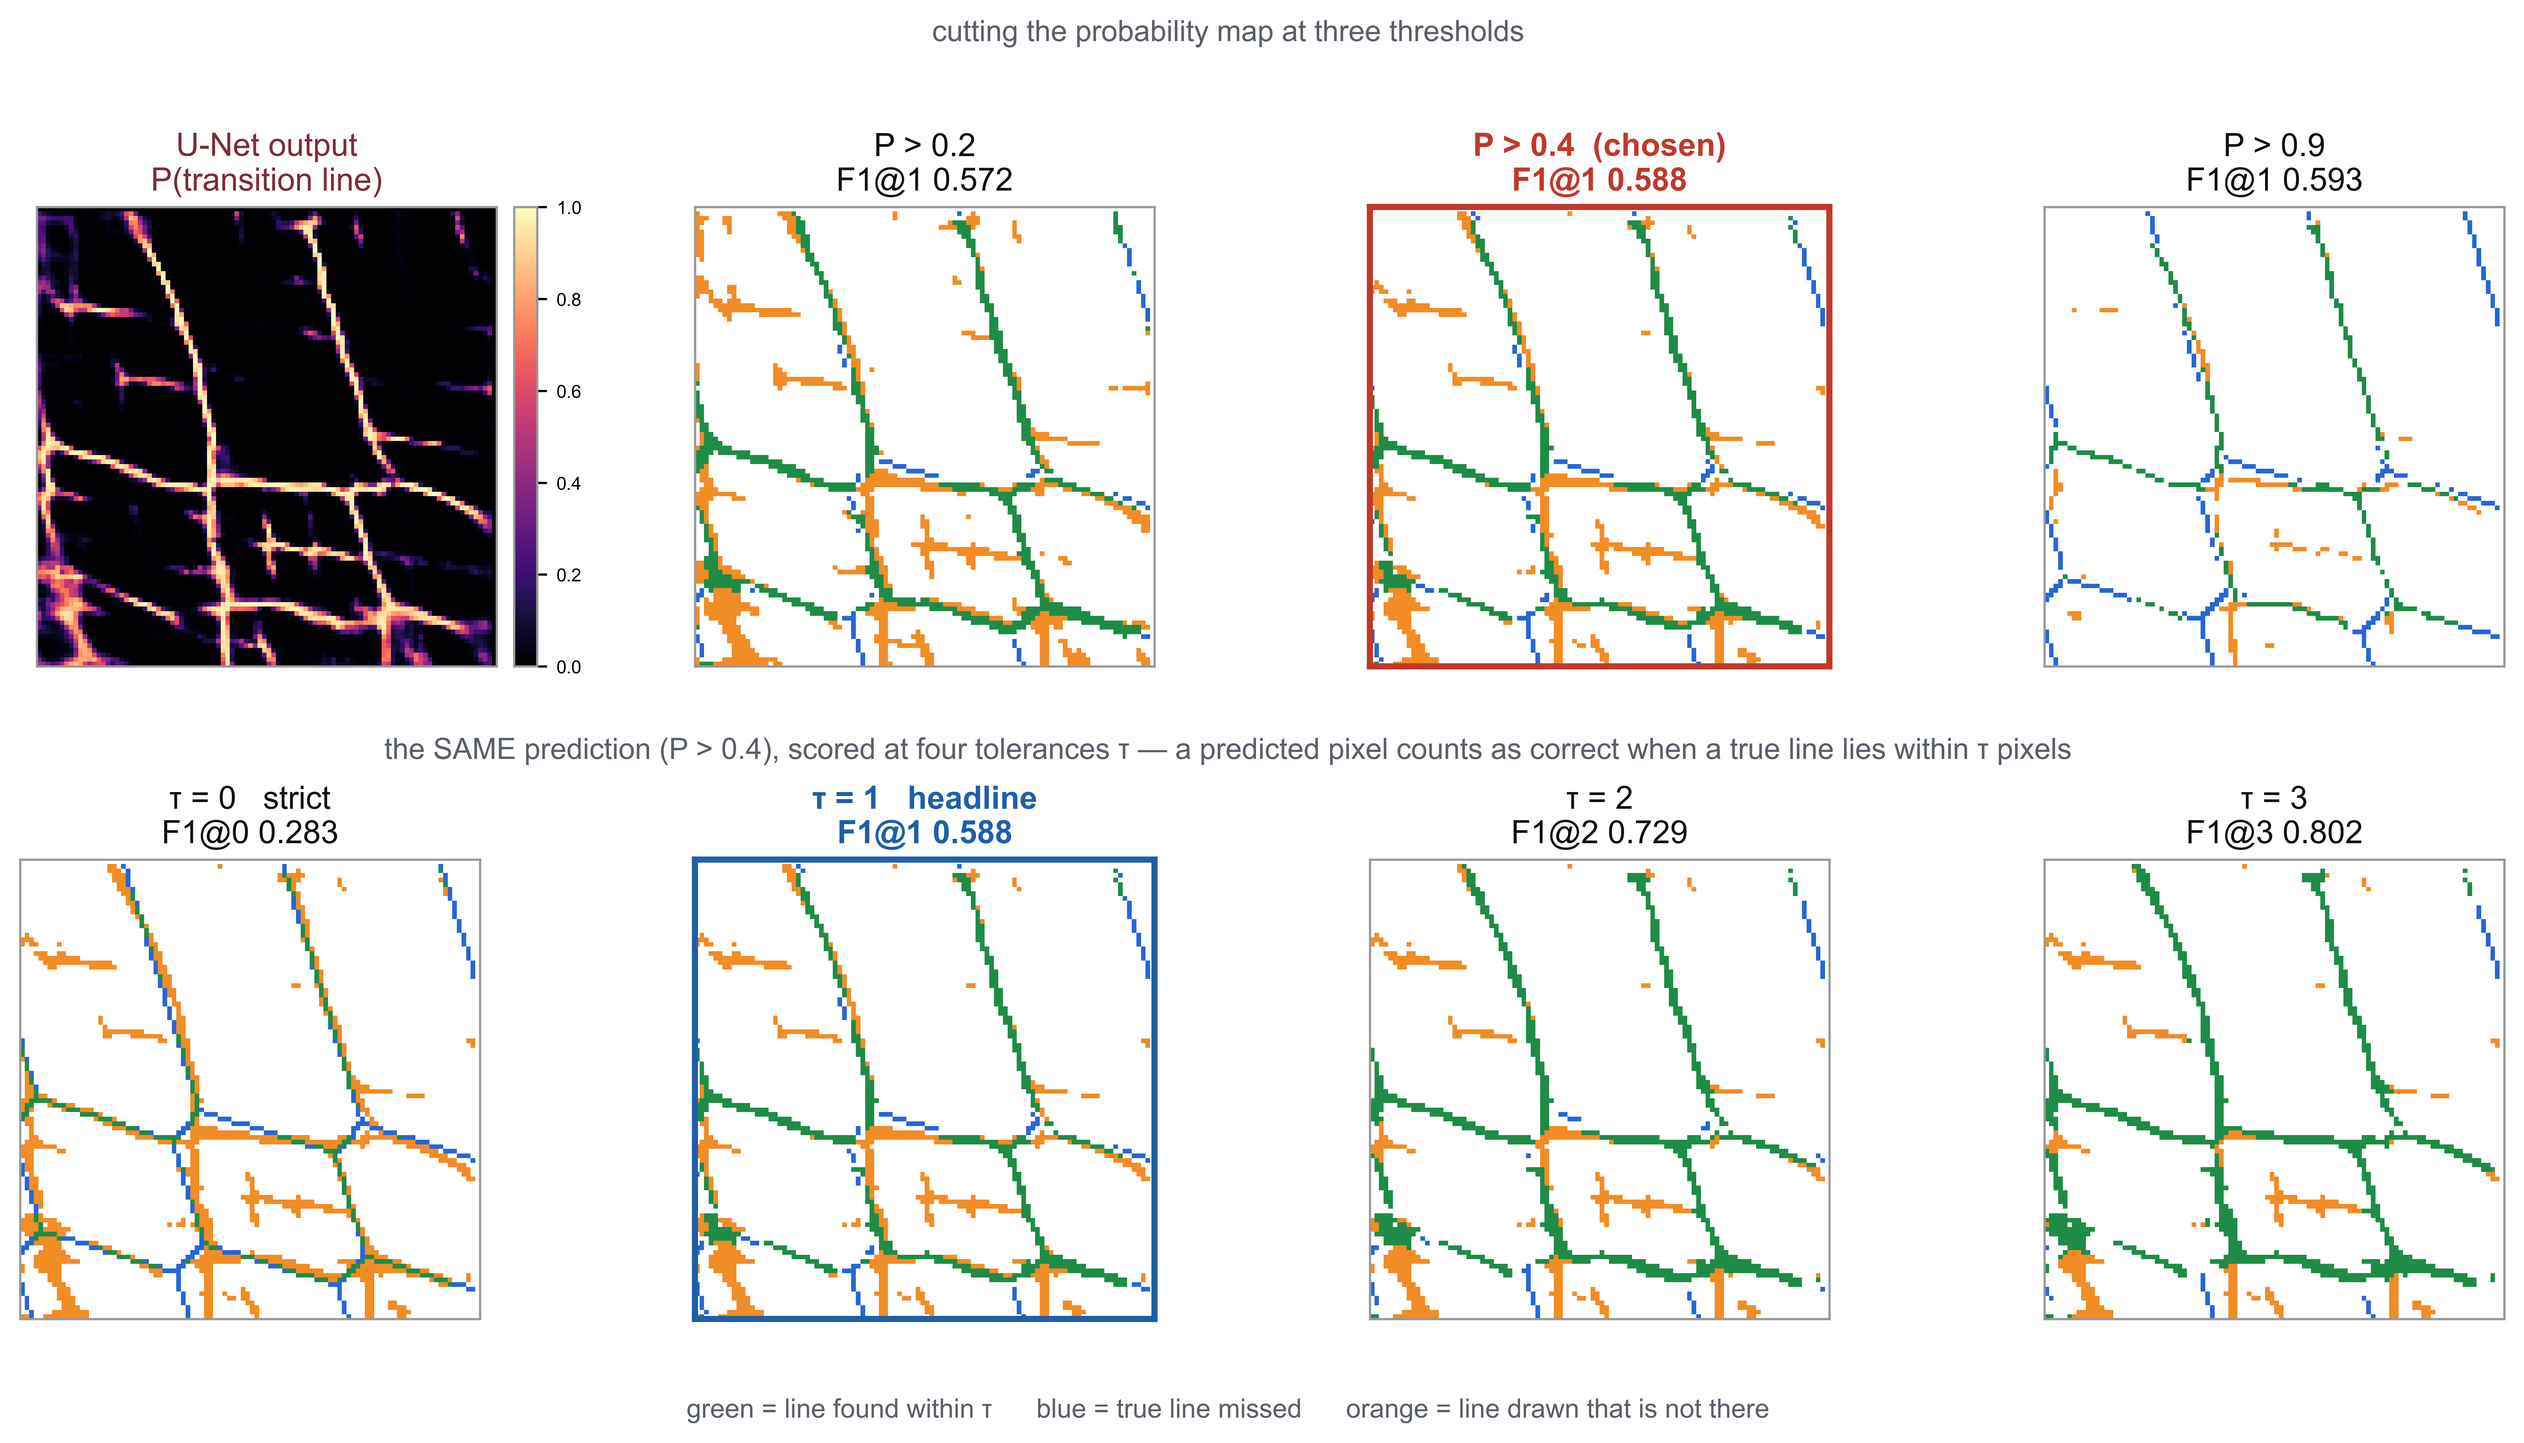
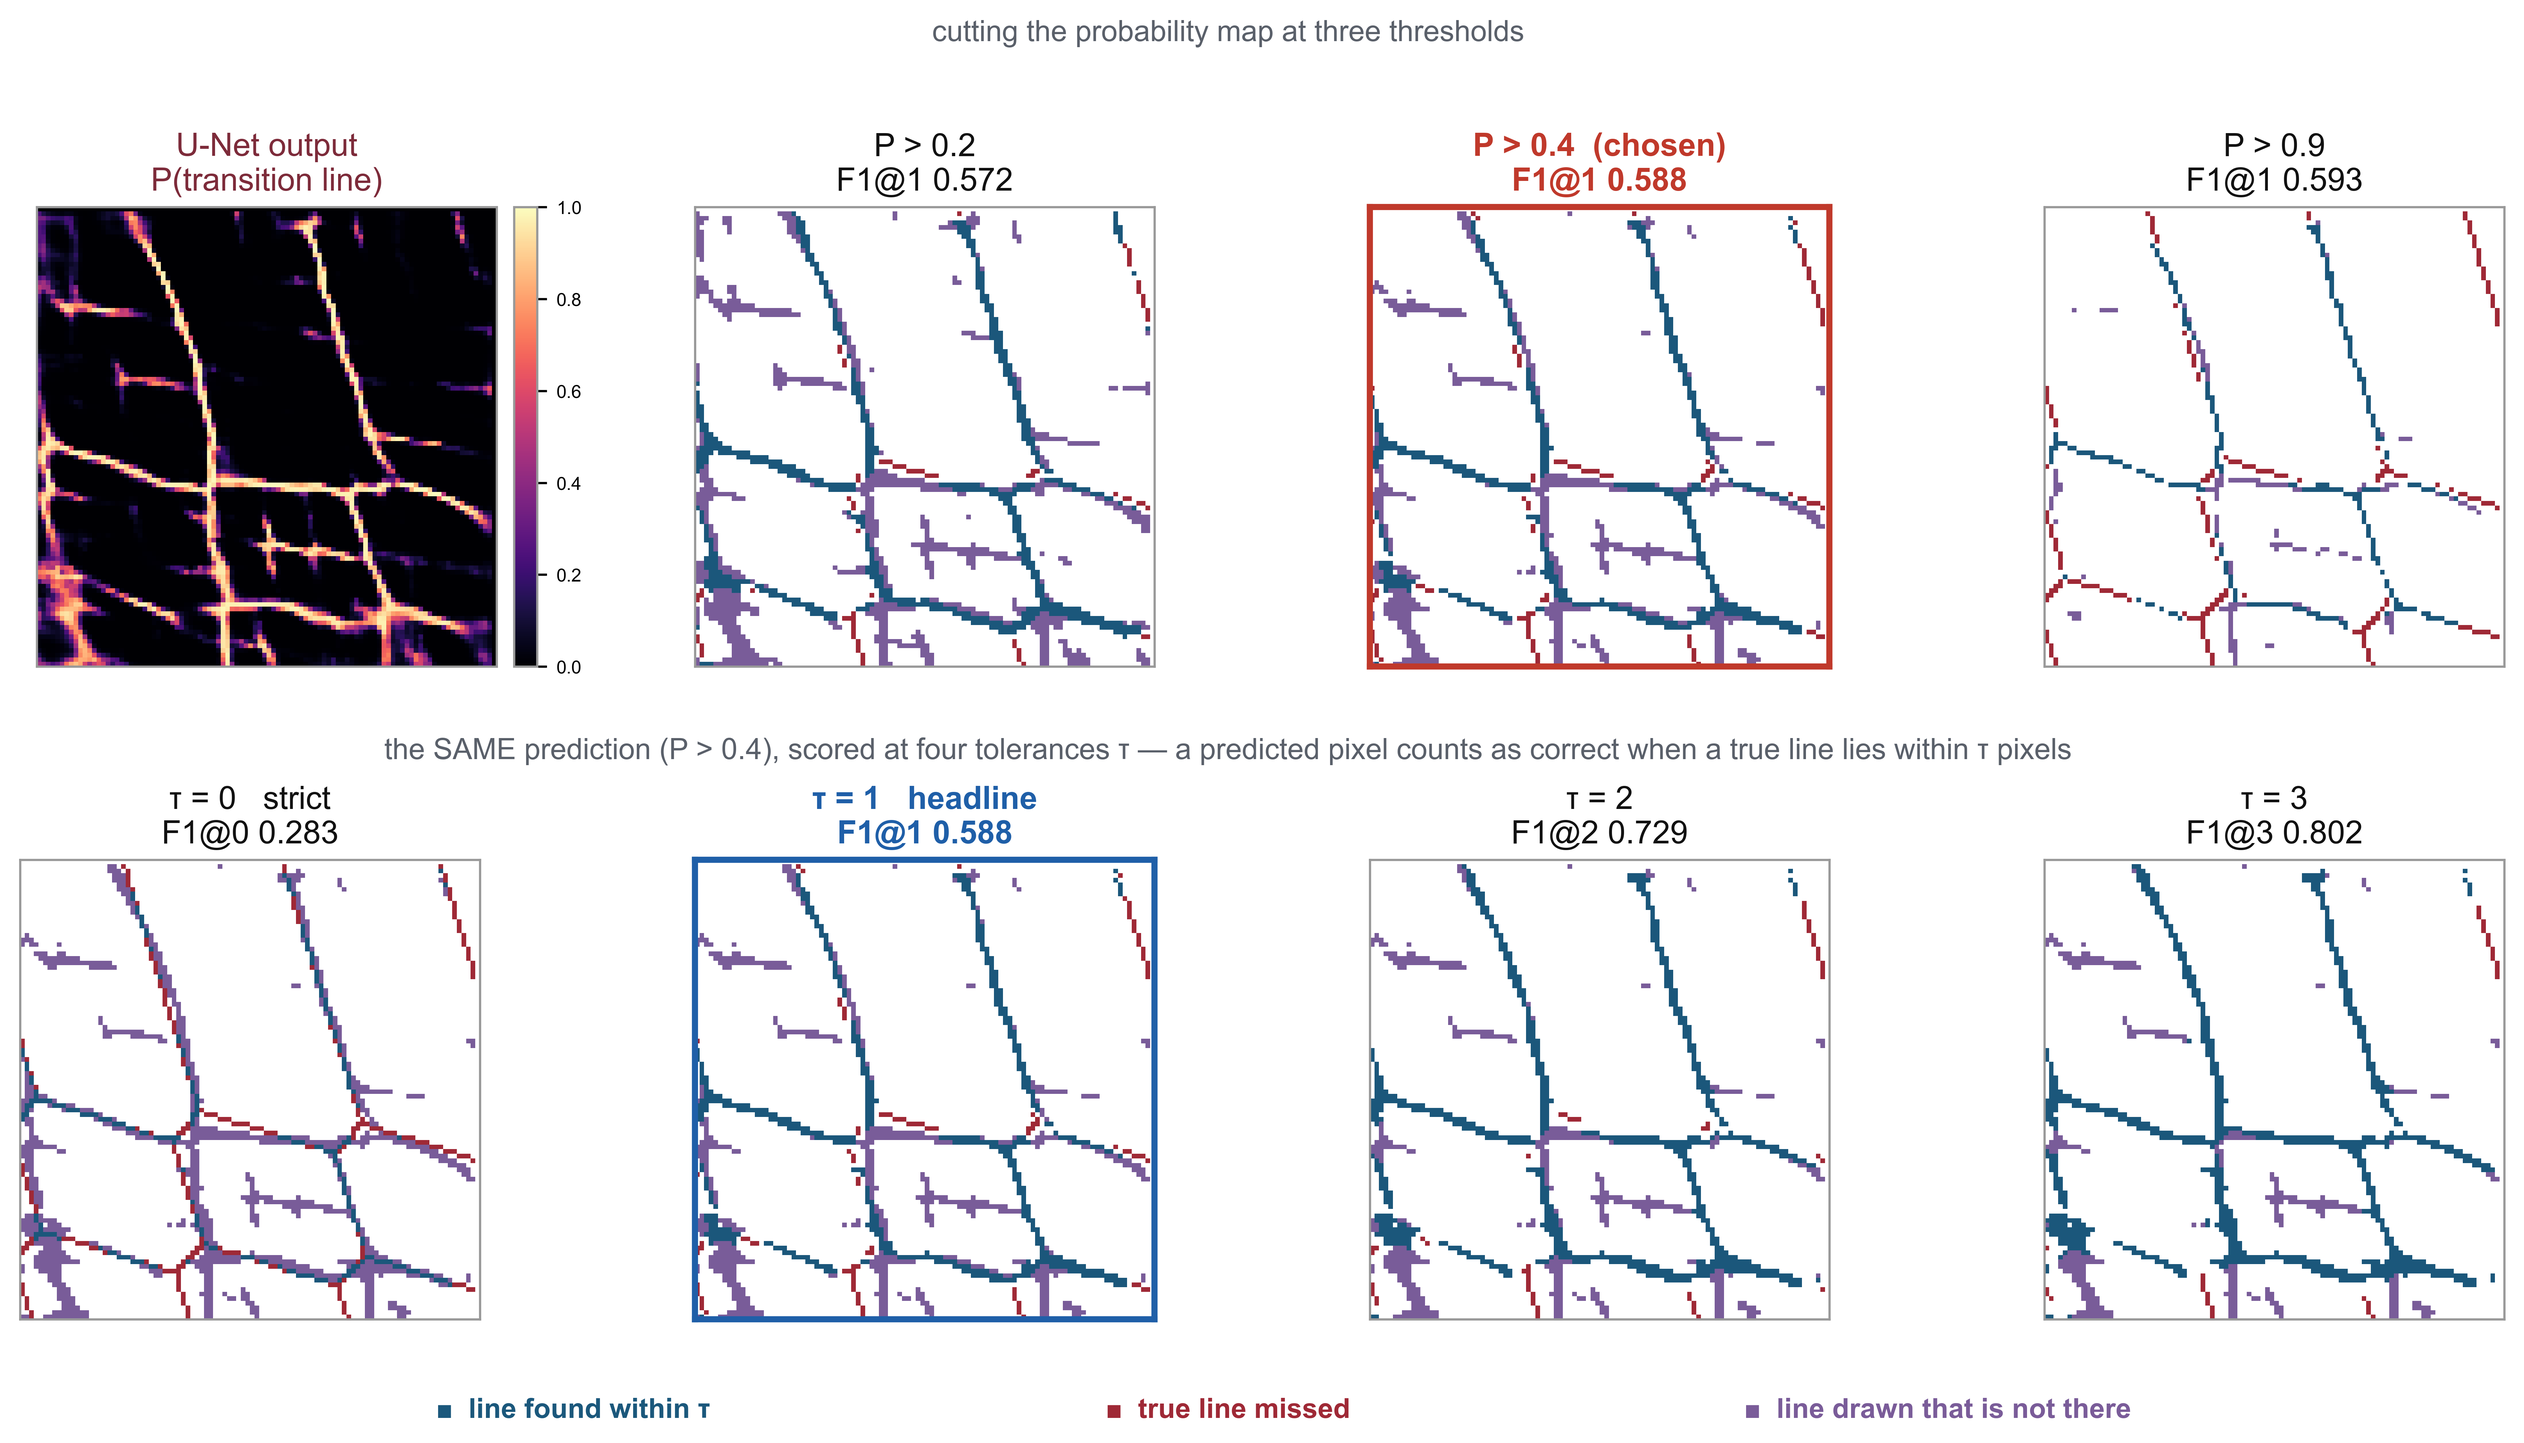
added some

diff --git a/paper_figures/make_figures.py b/paper_figures/make_figures.py
@@ -42,6 +42,13 @@ N_RAYS, N_POINTS = 8, 60
 
 INK = "#111111"
 MUT = "#5a606a"
+
+# Error colours for the reconstruction panels, taken from the deck's own
+# theme (teal / red / plum) rather than green and orange.
+HIT_HEX, MISS_HEX, FALSE_HEX = "#1B587C", "#9F2936", "#7A5C99"
+HIT_RGB = (0.106, 0.345, 0.486)
+MISS_RGB = (0.624, 0.161, 0.212)
+FALSE_RGB = (0.478, 0.361, 0.600)
 plt.rcParams.update({
     "font.family": "sans-serif",
     "font.sans-serif": ["Arial", "DejaVu Sans"],
@@ -218,7 +225,7 @@ def fig_unet():
 CONFIG = "8_rays_60_points_500_samples"
 RUN_DIR = os.path.join(ROOT, "results",
                        "4-5-6-7-8_rays_40-50-60_points_500_samples")
-LADDER = (0.2, 0.4, 0.9)
+LADDER = (0.4, 0.9)
 
 # Which held-out device the results figure uses.  Index into test.npz:
 #   0 -> figures/test/sample_1 (pool sample_5)
@@ -274,13 +281,13 @@ def fig_probability_to_lines(device_index=RESULT_DEVICE, ladder=LADDER):
     truth = Yt > 0.5
     print(f"  picked device #33 (0.8 mV window)   threshold {thr:g}")
 
-    TAUS = (0, 1, 2, 3)
+    TAUS = (0, 1, 3)
     d_true_by_tau = {}
-    fig = plt.figure(figsize=(13.6, 7.2))
-    # four panels per row, so each is half again as large as before
-    gs = fig.add_gridspec(2, 4, height_ratios=[1.0, 1.0],
-                          hspace=0.42, wspace=0.16,
-                          left=0.035, right=0.99, top=0.86, bottom=0.09)
+    fig = plt.figure(figsize=(12.6, 8.6))
+    # three panels per row, so each is as large as the slide allows
+    gs = fig.add_gridspec(2, 3, height_ratios=[1.0, 1.0],
+                          hspace=0.34, wspace=0.12,
+                          left=0.035, right=0.99, top=0.88, bottom=0.075)
 
     def blank(ax):
         ax.set_xticks([]); ax.set_yticks([])
@@ -297,9 +304,9 @@ def fig_probability_to_lines(device_index=RESULT_DEVICE, ladder=LADDER):
         dp = (distance_transform_edt(~pred) if pred.any()
               else np.full(pred.shape, np.inf))
         rgb = np.ones(truth.shape + (3,))
-        rgb[pred & (dt > tau)] = (0.95, 0.55, 0.15)
-        rgb[truth & (dp > tau)] = (0.15, 0.40, 0.85)
-        rgb[pred & (dt <= tau)] = (0.12, 0.55, 0.28)
+        rgb[pred & (dt > tau)] = FALSE_RGB
+        rgb[truth & (dp > tau)] = MISS_RGB
+        rgb[pred & (dt <= tau)] = HIT_RGB
         return rgb
 
     # ── row 1: the output, the truth, and the map cut four ways ──────────
@@ -335,8 +342,7 @@ def fig_probability_to_lines(device_index=RESULT_DEVICE, ladder=LADDER):
         ax = fig.add_subplot(gs[1, k])
         ax.imshow(err_rgb(pred, float(tau)), origin="lower",
                   interpolation="nearest")
-        head = {0: "τ = 0   strict", 1: "τ = 1   headline"}.get(
-            tau, f"τ = {tau}")
+        head = {0: "τ = 0   strict"}.get(tau, f"τ = {tau}")
         ax.set_title(f"{head}\nF1@{tau} {m['f1']:.3f}", fontsize=11.5,
                      color="#1f5fa8" if tau == 1 else INK,
                      fontweight="bold" if tau == 1 else "normal")
@@ -347,15 +353,16 @@ def fig_probability_to_lines(device_index=RESULT_DEVICE, ladder=LADDER):
 
     fig.text(0.5, 0.975, "cutting the probability map at three thresholds",
              ha="center", fontsize=10.5, color=MUT)
-    fig.text(0.5, 0.478, "the SAME prediction (P > "
+    fig.text(0.5, 0.468, "the SAME prediction (P > "
              f"{thr:g}), scored at four tolerances τ — a predicted pixel "
              "counts as correct when a true line lies within τ pixels",
              ha="center", fontsize=10.5, color=MUT)
-    fig.text(0.5, 0.022,
-             "green = line found within τ      "
-             "blue = true line missed      "
-             "orange = line drawn that is not there",
-             ha="center", fontsize=9.5, color=MUT)
+    for _x, _t, _c in (
+            (0.22, "found  — a predicted line that really is there", HIT_HEX),
+            (0.53, "missed  — a real line the model did not draw", MISS_HEX),
+            (0.83, "false  — a line drawn where there is none", FALSE_HEX)):
+        fig.text(_x, 0.018, "■  " + _t, ha="center", fontsize=10.5,
+                 color=_c, fontweight="bold")
 
     save(fig, "fig_probability_to_lines")
 
